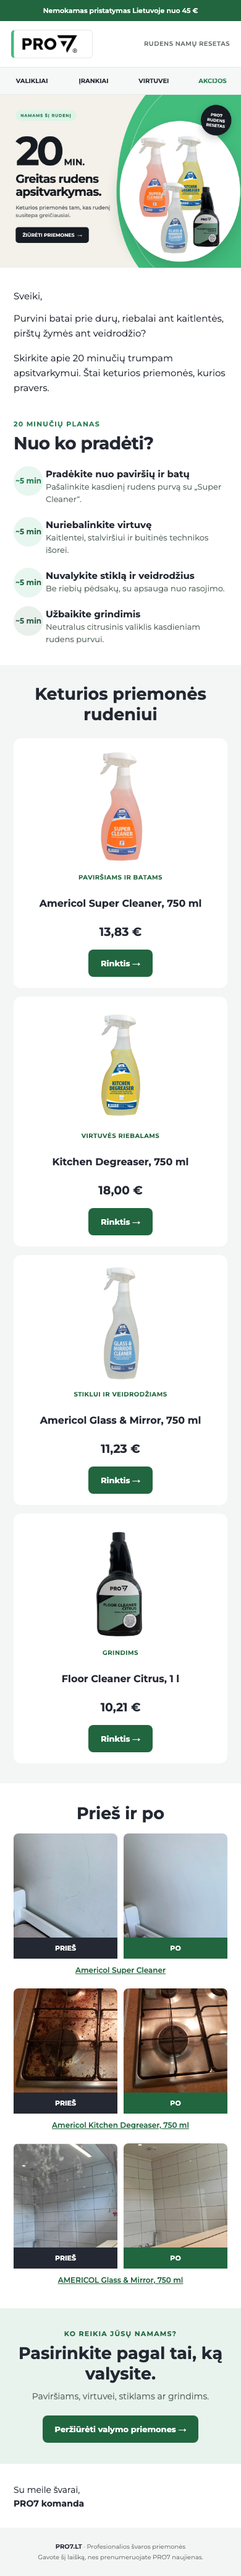
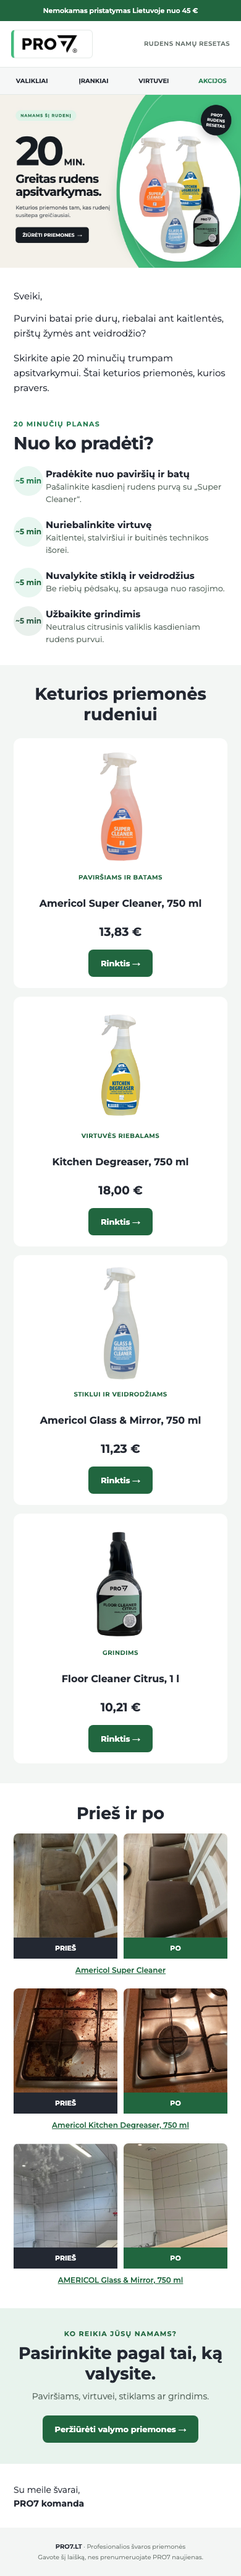
Replace Super Cleaner wall proof with client chair photos

Changed region(s): [[0.0308, 0.7139, 0.9538, 0.776]]

diff --git a/nl2-20min-rudens-resetas/omnisend.html b/nl2-20min-rudens-resetas/omnisend.html
@@ -1,10 +1,10 @@
-<!-- PRO7 NL2. HTML input only. Paste omnisend-styles.css into Styles. Asset commit: 19673d591aebc471332e1b536290d04e2dd6ef27. -->
+<!-- PRO7 NL2. HTML input only. Paste omnisend-styles.css into Styles. Asset commit: 00952623221b16e9c7082c4826b43da69c2dc98a. -->
 <table role="presentation" class="pro7-email canvas" width="100%" cellpadding="0" cellspacing="0" border="0" bgcolor="#edf1ef" style="font-family:Montserrat,Arial,sans-serif;color:#232832;width:100%;max-width:600px;table-layout:fixed;margin:0 auto"><tr><td class="outer" align="center" style="font-family:Montserrat,Arial,sans-serif;padding:0">
     <table role="presentation" class="shell surface" width="100%" align="center" cellpadding="0" cellspacing="0" border="0" bgcolor="#ffffff" style="width:100%;max-width:600px;table-layout:fixed;margin:0 auto">
       <tr><td class="bar" bgcolor="#21663f" align="center" style="font-family:Montserrat,Arial,sans-serif;padding:9px 16px;font-family:Montserrat,Arial,sans-serif;font-size:11px;line-height:16px;font-weight:600;color:#ffffff">Nemokamas pristatymas Lietuvoje nuo 45 €</td></tr>
       <tr><td class="surface header" bgcolor="#ffffff" style="font-family:Montserrat,Arial,sans-serif;padding:13px 32px">
         <table cellpadding="0" cellspacing="0" border="0" role="presentation" width="100%"><tr>
-          <td style="font-family:Montserrat,Arial,sans-serif;"><a href="https://www.pro7.lt/"><img class="logo" src="https://raw.githubusercontent.com/elaiskai/pro7-email-assets/19673d591aebc471332e1b536290d04e2dd6ef27/nl2-20min-rudens-resetas/assets/pro7-logo-safe.png" width="150" alt="PRO7" style="display:block;border:0;max-width:100%;width:150px;max-width:100%;height:auto"></a></td>
+          <td style="font-family:Montserrat,Arial,sans-serif;"><a href="https://www.pro7.lt/"><img class="logo" src="https://raw.githubusercontent.com/elaiskai/pro7-email-assets/00952623221b16e9c7082c4826b43da69c2dc98a/nl2-20min-rudens-resetas/assets/pro7-logo-safe.png" width="150" alt="PRO7" style="display:block;border:0;max-width:100%;width:150px;max-width:100%;height:auto"></a></td>
           <td class="header-label muted" align="right" style="font-family:Montserrat,Arial,sans-serif;font-family:Montserrat,Arial,sans-serif;font-size:11px;line-height:15px;font-weight:600;letter-spacing:1.2px;text-transform:uppercase;color:#65706b">Rudens namų resetas</td>
         </tr></table>
       </td></tr>
@@ -17,7 +17,7 @@
         </tr></table>
       </td></tr>
 
-      <tr><td style="font-family:Montserrat,Arial,sans-serif;"><a href="https://www.pro7.lt/svaros-prekes-valikliai/valymo-priemones"><img src="https://raw.githubusercontent.com/elaiskai/pro7-email-assets/19673d591aebc471332e1b536290d04e2dd6ef27/nl2-20min-rudens-resetas/assets/hero-20min.jpg" width="600" alt="20 min. greitam rudens apsitvarkymui. Super Cleaner, Kitchen Degreaser, Glass &amp; Mirror ir Floor Cleaner Citrus. Žiūrėti priemones." style="display:block;border:0;max-width:100%;width:100%;height:auto"></a></td></tr>
+      <tr><td style="font-family:Montserrat,Arial,sans-serif;"><a href="https://www.pro7.lt/svaros-prekes-valikliai/valymo-priemones"><img src="https://raw.githubusercontent.com/elaiskai/pro7-email-assets/00952623221b16e9c7082c4826b43da69c2dc98a/nl2-20min-rudens-resetas/assets/hero-20min.jpg" width="600" alt="20 min. greitam rudens apsitvarkymui. Super Cleaner, Kitchen Degreaser, Glass &amp; Mirror ir Floor Cleaner Citrus. Žiūrėti priemones." style="display:block;border:0;max-width:100%;width:100%;height:auto"></a></td></tr>
 
       <tr><td class="pad" style="font-family:Montserrat,Arial,sans-serif;padding:34px 38px 22px;font-family:Montserrat,Arial,sans-serif;color:#232832">
         <p class="greeting" style="margin:0 0 12px;font-size:15px;line-height:24px">Sveiki,</p>
@@ -46,7 +46,7 @@
 <!--[if mso]><td width="268" valign="top" style="font-family:Montserrat,Arial,sans-serif;"><![endif]-->
 <table class="product-col" role="presentation" width="268" cellpadding="0" cellspacing="0" style="display:inline-table;vertical-align:top;width:100%;max-width:268px;table-layout:fixed"><tr><td class="product-gutter" style="font-family:Montserrat,Arial,sans-serif;padding:0 7px 14px">
 <table cellpadding="0" cellspacing="0" border="0" class="product-card" role="presentation" width="100%" bgcolor="#ffffff" style="border-radius:12px;background:#ffffff">
-<tr><td align="center" style="font-family:Montserrat,Arial,sans-serif;padding:18px 12px 8px"><a href="https://www.pro7.lt/svaros-prekes/113-americol-super-cleaner-0-75-l-universalus-valiklis-koncentratas"><img class="product-img" src="https://raw.githubusercontent.com/elaiskai/pro7-email-assets/19673d591aebc471332e1b536290d04e2dd6ef27/nl2-20min-rudens-resetas/assets/super-cleaner.png" width="185" height="185" alt="Americol Super Cleaner, 750 ml" style="display:block;border:0;max-width:100%;width:185px;height:185px;margin:0 auto;border-radius:8px"></a></td></tr>
+<tr><td align="center" style="font-family:Montserrat,Arial,sans-serif;padding:18px 12px 8px"><a href="https://www.pro7.lt/svaros-prekes/113-americol-super-cleaner-0-75-l-universalus-valiklis-koncentratas"><img class="product-img" src="https://raw.githubusercontent.com/elaiskai/pro7-email-assets/00952623221b16e9c7082c4826b43da69c2dc98a/nl2-20min-rudens-resetas/assets/super-cleaner.png" width="185" height="185" alt="Americol Super Cleaner, 750 ml" style="display:block;border:0;max-width:100%;width:185px;height:185px;margin:0 auto;border-radius:8px"></a></td></tr>
 <tr><td align="center" height="28" style="font-family:Montserrat,Arial,sans-serif;height:28px;padding:0 12px;font-size:10px;line-height:14px;font-weight:700;letter-spacing:.5px;text-transform:uppercase;color:#21663f">Paviršiams ir batams</td></tr>
 <tr><td align="center" valign="middle" height="56" style="font-family:Montserrat,Arial,sans-serif;height:56px;padding:0 14px"><h3 style="margin:0;font-size:16px;line-height:22px;font-weight:700"><a href="https://www.pro7.lt/svaros-prekes/113-americol-super-cleaner-0-75-l-universalus-valiklis-koncentratas" style="text-decoration:none;color:#232832">Americol Super Cleaner, 750 ml</a></h3></td></tr>
 <tr><td align="center" height="36" style="font-family:Montserrat,Arial,sans-serif;height:36px;font-size:19px;line-height:26px;font-weight:700"><a href="https://www.pro7.lt/svaros-prekes/113-americol-super-cleaner-0-75-l-universalus-valiklis-koncentratas" style="text-decoration:none;color:#232832">13,83 €</a></td></tr>
@@ -57,7 +57,7 @@
 <!--[if mso]><td width="268" valign="top" style="font-family:Montserrat,Arial,sans-serif;"><![endif]-->
 <table class="product-col" role="presentation" width="268" cellpadding="0" cellspacing="0" style="display:inline-table;vertical-align:top;width:100%;max-width:268px;table-layout:fixed"><tr><td class="product-gutter" style="font-family:Montserrat,Arial,sans-serif;padding:0 7px 14px">
 <table cellpadding="0" cellspacing="0" border="0" class="product-card" role="presentation" width="100%" bgcolor="#ffffff" style="border-radius:12px;background:#ffffff">
-<tr><td align="center" style="font-family:Montserrat,Arial,sans-serif;padding:18px 12px 8px"><a href="https://www.pro7.lt/svaros-prekes/1416-americol-kitchen-degreaser-750-ml-virtuves-riebalu-salinimo-priemone"><img class="product-img" src="https://raw.githubusercontent.com/elaiskai/pro7-email-assets/19673d591aebc471332e1b536290d04e2dd6ef27/nl2-20min-rudens-resetas/assets/kitchen-degreaser.png" width="185" height="185" alt="Kitchen Degreaser, 750 ml" style="display:block;border:0;max-width:100%;width:185px;height:185px;margin:0 auto;border-radius:8px"></a></td></tr>
+<tr><td align="center" style="font-family:Montserrat,Arial,sans-serif;padding:18px 12px 8px"><a href="https://www.pro7.lt/svaros-prekes/1416-americol-kitchen-degreaser-750-ml-virtuves-riebalu-salinimo-priemone"><img class="product-img" src="https://raw.githubusercontent.com/elaiskai/pro7-email-assets/00952623221b16e9c7082c4826b43da69c2dc98a/nl2-20min-rudens-resetas/assets/kitchen-degreaser.png" width="185" height="185" alt="Kitchen Degreaser, 750 ml" style="display:block;border:0;max-width:100%;width:185px;height:185px;margin:0 auto;border-radius:8px"></a></td></tr>
 <tr><td align="center" height="28" style="font-family:Montserrat,Arial,sans-serif;height:28px;padding:0 12px;font-size:10px;line-height:14px;font-weight:700;letter-spacing:.5px;text-transform:uppercase;color:#21663f">Virtuvės riebalams</td></tr>
 <tr><td align="center" valign="middle" height="56" style="font-family:Montserrat,Arial,sans-serif;height:56px;padding:0 14px"><h3 style="margin:0;font-size:16px;line-height:22px;font-weight:700"><a href="https://www.pro7.lt/svaros-prekes/1416-americol-kitchen-degreaser-750-ml-virtuves-riebalu-salinimo-priemone" style="text-decoration:none;color:#232832">Kitchen Degreaser, 750 ml</a></h3></td></tr>
 <tr><td align="center" height="36" style="font-family:Montserrat,Arial,sans-serif;height:36px;font-size:19px;line-height:26px;font-weight:700"><a href="https://www.pro7.lt/svaros-prekes/1416-americol-kitchen-degreaser-750-ml-virtuves-riebalu-salinimo-priemone" style="text-decoration:none;color:#232832">18,00 €</a></td></tr>
@@ -69,7 +69,7 @@
 <!--[if mso]><td width="268" valign="top" style="font-family:Montserrat,Arial,sans-serif;"><![endif]-->
 <table class="product-col" role="presentation" width="268" cellpadding="0" cellspacing="0" style="display:inline-table;vertical-align:top;width:100%;max-width:268px;table-layout:fixed"><tr><td class="product-gutter" style="font-family:Montserrat,Arial,sans-serif;padding:0 7px 14px">
 <table cellpadding="0" cellspacing="0" border="0" class="product-card" role="presentation" width="100%" bgcolor="#ffffff" style="border-radius:12px;background:#ffffff">
-<tr><td align="center" style="font-family:Montserrat,Arial,sans-serif;padding:18px 12px 8px"><a href="https://www.pro7.lt/svaros-prekes/114-americol-glass-and-mirror-cleanerstiklu-ir-veidrodziu-valiklis"><img class="product-img" src="https://raw.githubusercontent.com/elaiskai/pro7-email-assets/19673d591aebc471332e1b536290d04e2dd6ef27/nl2-20min-rudens-resetas/assets/glass-mirror-750.png" width="185" height="185" alt="Americol Glass &amp; Mirror, 750 ml" style="display:block;border:0;max-width:100%;width:185px;height:185px;margin:0 auto;border-radius:8px"></a></td></tr>
+<tr><td align="center" style="font-family:Montserrat,Arial,sans-serif;padding:18px 12px 8px"><a href="https://www.pro7.lt/svaros-prekes/114-americol-glass-and-mirror-cleanerstiklu-ir-veidrodziu-valiklis"><img class="product-img" src="https://raw.githubusercontent.com/elaiskai/pro7-email-assets/00952623221b16e9c7082c4826b43da69c2dc98a/nl2-20min-rudens-resetas/assets/glass-mirror-750.png" width="185" height="185" alt="Americol Glass &amp; Mirror, 750 ml" style="display:block;border:0;max-width:100%;width:185px;height:185px;margin:0 auto;border-radius:8px"></a></td></tr>
 <tr><td align="center" height="28" style="font-family:Montserrat,Arial,sans-serif;height:28px;padding:0 12px;font-size:10px;line-height:14px;font-weight:700;letter-spacing:.5px;text-transform:uppercase;color:#21663f">Stiklui ir veidrodžiams</td></tr>
 <tr><td align="center" valign="middle" height="56" style="font-family:Montserrat,Arial,sans-serif;height:56px;padding:0 14px"><h3 style="margin:0;font-size:16px;line-height:22px;font-weight:700"><a href="https://www.pro7.lt/svaros-prekes/114-americol-glass-and-mirror-cleanerstiklu-ir-veidrodziu-valiklis" style="text-decoration:none;color:#232832">Americol Glass &amp; Mirror, 750 ml</a></h3></td></tr>
 <tr><td align="center" height="36" style="font-family:Montserrat,Arial,sans-serif;height:36px;font-size:19px;line-height:26px;font-weight:700"><a href="https://www.pro7.lt/svaros-prekes/114-americol-glass-and-mirror-cleanerstiklu-ir-veidrodziu-valiklis" style="text-decoration:none;color:#232832">11,23 €</a></td></tr>
@@ -80,7 +80,7 @@
 <!--[if mso]><td width="268" valign="top" style="font-family:Montserrat,Arial,sans-serif;"><![endif]-->
 <table class="product-col" role="presentation" width="268" cellpadding="0" cellspacing="0" style="display:inline-table;vertical-align:top;width:100%;max-width:268px;table-layout:fixed"><tr><td class="product-gutter" style="font-family:Montserrat,Arial,sans-serif;padding:0 7px 14px">
 <table cellpadding="0" cellspacing="0" border="0" class="product-card" role="presentation" width="100%" bgcolor="#ffffff" style="border-radius:12px;background:#ffffff">
-<tr><td align="center" style="font-family:Montserrat,Arial,sans-serif;padding:18px 12px 8px"><a href="https://www.pro7.lt/svaros-prekes/1375-floor-cleaner-citrus-1-l-grindu-valiklis"><img class="product-img" src="https://raw.githubusercontent.com/elaiskai/pro7-email-assets/19673d591aebc471332e1b536290d04e2dd6ef27/nl2-20min-rudens-resetas/assets/floor-cleaner-citrus.png" width="185" height="185" alt="Floor Cleaner Citrus, 1 l" style="display:block;border:0;max-width:100%;width:185px;height:185px;margin:0 auto;border-radius:8px"></a></td></tr>
+<tr><td align="center" style="font-family:Montserrat,Arial,sans-serif;padding:18px 12px 8px"><a href="https://www.pro7.lt/svaros-prekes/1375-floor-cleaner-citrus-1-l-grindu-valiklis"><img class="product-img" src="https://raw.githubusercontent.com/elaiskai/pro7-email-assets/00952623221b16e9c7082c4826b43da69c2dc98a/nl2-20min-rudens-resetas/assets/floor-cleaner-citrus.png" width="185" height="185" alt="Floor Cleaner Citrus, 1 l" style="display:block;border:0;max-width:100%;width:185px;height:185px;margin:0 auto;border-radius:8px"></a></td></tr>
 <tr><td align="center" height="28" style="font-family:Montserrat,Arial,sans-serif;height:28px;padding:0 12px;font-size:10px;line-height:14px;font-weight:700;letter-spacing:.5px;text-transform:uppercase;color:#21663f">Grindims</td></tr>
 <tr><td align="center" valign="middle" height="56" style="font-family:Montserrat,Arial,sans-serif;height:56px;padding:0 14px"><h3 style="margin:0;font-size:16px;line-height:22px;font-weight:700"><a href="https://www.pro7.lt/svaros-prekes/1375-floor-cleaner-citrus-1-l-grindu-valiklis" style="text-decoration:none;color:#232832">Floor Cleaner Citrus, 1 l</a></h3></td></tr>
 <tr><td align="center" height="36" style="font-family:Montserrat,Arial,sans-serif;height:36px;font-size:19px;line-height:26px;font-weight:700"><a href="https://www.pro7.lt/svaros-prekes/1375-floor-cleaner-citrus-1-l-grindu-valiklis" style="text-decoration:none;color:#232832">10,21 €</a></td></tr>
@@ -93,9 +93,9 @@
 </td></tr>
 <tr><td class="pad surface" bgcolor="#ffffff" style="font-family:Montserrat,Arial,sans-serif;padding:32px;color:#232832">
 <h2 style="margin:0 0 8px;font-size:27px;line-height:33px;font-weight:700;text-align:center">Prieš ir po</h2>
-<table cellpadding="0" cellspacing="0" border="0" class="proof" role="presentation" width="100%" style="table-layout:fixed;margin-top:16px"><tr><td width="50%" valign="top" style="font-family:Montserrat,Arial,sans-serif;padding:0 5px 0 0"><a href="https://www.pro7.lt/galerija"><img src="https://raw.githubusercontent.com/elaiskai/pro7-email-assets/19673d591aebc471332e1b536290d04e2dd6ef27/nl2-20min-rudens-resetas/assets/before-super-cleaner-email.jpg" width="258" alt="Siena prieš valymą, Americol Super Cleaner" style="display:block;border:0;max-width:100%;width:100%;height:auto;border-radius:8px 8px 0 0"></a><p style="margin:0;padding:9px;background:#232832;color:#ffffff;text-align:center;font-size:11px;line-height:16px;font-weight:700">PRIEŠ</p></td><td width="50%" valign="top" style="font-family:Montserrat,Arial,sans-serif;padding:0 0 0 5px"><a href="https://www.pro7.lt/galerija"><img src="https://raw.githubusercontent.com/elaiskai/pro7-email-assets/19673d591aebc471332e1b536290d04e2dd6ef27/nl2-20min-rudens-resetas/assets/after-super-cleaner-email.jpg" width="258" alt="Siena po valymo, Americol Super Cleaner" style="display:block;border:0;max-width:100%;width:100%;height:auto;border-radius:8px 8px 0 0"></a><p style="margin:0;padding:9px;background:#21663f;color:#ffffff;text-align:center;font-size:11px;line-height:16px;font-weight:700">PO</p></td></tr><tr><td colspan="2" align="center" style="font-family:Montserrat,Arial,sans-serif;padding:10px 0 4px;font-size:12px;line-height:18px;font-weight:600"><a href="https://www.pro7.lt/svaros-prekes/113-americol-super-cleaner-0-75-l-universalus-valiklis-koncentratas" style="text-decoration:none;color:#21663f;text-decoration:underline">Americol Super Cleaner</a></td></tr></table>
-<table cellpadding="0" cellspacing="0" border="0" class="proof" role="presentation" width="100%" style="table-layout:fixed;margin-top:16px"><tr><td width="50%" valign="top" style="font-family:Montserrat,Arial,sans-serif;padding:0 5px 0 0"><a href="https://www.pro7.lt/svaros-prekes/1416-americol-kitchen-degreaser-750-ml-virtuves-riebalu-salinimo-priemone"><img src="https://raw.githubusercontent.com/elaiskai/pro7-email-assets/19673d591aebc471332e1b536290d04e2dd6ef27/nl2-20min-rudens-resetas/assets/kitchen-degreaser-before-email.jpg" width="258" alt="Kaitlentė prieš valymą, Americol Kitchen Degreaser" style="display:block;border:0;max-width:100%;width:100%;height:auto;border-radius:8px 8px 0 0"></a><p style="margin:0;padding:9px;background:#232832;color:#ffffff;text-align:center;font-size:11px;line-height:16px;font-weight:700">PRIEŠ</p></td><td width="50%" valign="top" style="font-family:Montserrat,Arial,sans-serif;padding:0 0 0 5px"><a href="https://www.pro7.lt/svaros-prekes/1416-americol-kitchen-degreaser-750-ml-virtuves-riebalu-salinimo-priemone"><img src="https://raw.githubusercontent.com/elaiskai/pro7-email-assets/19673d591aebc471332e1b536290d04e2dd6ef27/nl2-20min-rudens-resetas/assets/kitchen-degreaser-after-email.jpg" width="258" alt="Kaitlentė po valymo, Americol Kitchen Degreaser" style="display:block;border:0;max-width:100%;width:100%;height:auto;border-radius:8px 8px 0 0"></a><p style="margin:0;padding:9px;background:#21663f;color:#ffffff;text-align:center;font-size:11px;line-height:16px;font-weight:700">PO</p></td></tr><tr><td colspan="2" align="center" style="font-family:Montserrat,Arial,sans-serif;padding:10px 0 4px;font-size:12px;line-height:18px;font-weight:600"><a href="https://www.pro7.lt/svaros-prekes/1416-americol-kitchen-degreaser-750-ml-virtuves-riebalu-salinimo-priemone" style="text-decoration:none;color:#21663f;text-decoration:underline">Americol Kitchen Degreaser, 750 ml</a></td></tr></table>
-<table cellpadding="0" cellspacing="0" border="0" class="proof" role="presentation" width="100%" style="table-layout:fixed;margin-top:16px"><tr><td width="50%" valign="top" style="font-family:Montserrat,Arial,sans-serif;padding:0 5px 0 0"><a href="https://www.pro7.lt/galerija"><img src="https://raw.githubusercontent.com/elaiskai/pro7-email-assets/19673d591aebc471332e1b536290d04e2dd6ef27/nl2-20min-rudens-resetas/assets/pries-pro7-valymo-priemones-43f9a.jpg" width="258" alt="Veidrodis prieš valymą, AMERICOL Glass &amp; Mirror, 750 ml" style="display:block;border:0;max-width:100%;width:100%;height:auto;border-radius:8px 8px 0 0"></a><p style="margin:0;padding:9px;background:#232832;color:#ffffff;text-align:center;font-size:11px;line-height:16px;font-weight:700">PRIEŠ</p></td><td width="50%" valign="top" style="font-family:Montserrat,Arial,sans-serif;padding:0 0 0 5px"><a href="https://www.pro7.lt/galerija"><img src="https://raw.githubusercontent.com/elaiskai/pro7-email-assets/19673d591aebc471332e1b536290d04e2dd6ef27/nl2-20min-rudens-resetas/assets/po-pro7-valymo-priemones-3bbdc.jpg" width="258" alt="Veidrodis po valymo, AMERICOL Glass &amp; Mirror, 750 ml" style="display:block;border:0;max-width:100%;width:100%;height:auto;border-radius:8px 8px 0 0"></a><p style="margin:0;padding:9px;background:#21663f;color:#ffffff;text-align:center;font-size:11px;line-height:16px;font-weight:700">PO</p></td></tr><tr><td colspan="2" align="center" style="font-family:Montserrat,Arial,sans-serif;padding:10px 0 4px;font-size:12px;line-height:18px;font-weight:600"><a href="https://www.pro7.lt/svaros-prekes/114-americol-glass-and-mirror-cleanerstiklu-ir-veidrodziu-valiklis" style="text-decoration:none;color:#21663f;text-decoration:underline">AMERICOL Glass &amp; Mirror, 750 ml</a></td></tr></table>
+<table cellpadding="0" cellspacing="0" border="0" class="proof" role="presentation" width="100%" style="table-layout:fixed;margin-top:16px"><tr><td width="50%" valign="top" style="font-family:Montserrat,Arial,sans-serif;padding:0 5px 0 0"><a href="https://www.pro7.lt/svaros-prekes/113-americol-super-cleaner-0-75-l-universalus-valiklis-koncentratas"><img src="https://raw.githubusercontent.com/elaiskai/pro7-email-assets/00952623221b16e9c7082c4826b43da69c2dc98a/nl2-20min-rudens-resetas/assets/super-cleaner-chairs-before-email.jpg" width="258" alt="Kėdžių apmušalai prieš valymą, Americol Super Cleaner" style="display:block;border:0;max-width:100%;width:100%;height:auto;border-radius:8px 8px 0 0"></a><p style="margin:0;padding:9px;background:#232832;color:#ffffff;text-align:center;font-size:11px;line-height:16px;font-weight:700">PRIEŠ</p></td><td width="50%" valign="top" style="font-family:Montserrat,Arial,sans-serif;padding:0 0 0 5px"><a href="https://www.pro7.lt/svaros-prekes/113-americol-super-cleaner-0-75-l-universalus-valiklis-koncentratas"><img src="https://raw.githubusercontent.com/elaiskai/pro7-email-assets/00952623221b16e9c7082c4826b43da69c2dc98a/nl2-20min-rudens-resetas/assets/super-cleaner-chairs-after-email.jpg" width="258" alt="Kėdžių apmušalai po valymo, Americol Super Cleaner" style="display:block;border:0;max-width:100%;width:100%;height:auto;border-radius:8px 8px 0 0"></a><p style="margin:0;padding:9px;background:#21663f;color:#ffffff;text-align:center;font-size:11px;line-height:16px;font-weight:700">PO</p></td></tr><tr><td colspan="2" align="center" style="font-family:Montserrat,Arial,sans-serif;padding:10px 0 4px;font-size:12px;line-height:18px;font-weight:600"><a href="https://www.pro7.lt/svaros-prekes/113-americol-super-cleaner-0-75-l-universalus-valiklis-koncentratas" style="text-decoration:none;color:#21663f;text-decoration:underline">Americol Super Cleaner</a></td></tr></table>
+<table cellpadding="0" cellspacing="0" border="0" class="proof" role="presentation" width="100%" style="table-layout:fixed;margin-top:16px"><tr><td width="50%" valign="top" style="font-family:Montserrat,Arial,sans-serif;padding:0 5px 0 0"><a href="https://www.pro7.lt/svaros-prekes/1416-americol-kitchen-degreaser-750-ml-virtuves-riebalu-salinimo-priemone"><img src="https://raw.githubusercontent.com/elaiskai/pro7-email-assets/00952623221b16e9c7082c4826b43da69c2dc98a/nl2-20min-rudens-resetas/assets/kitchen-degreaser-before-email.jpg" width="258" alt="Kaitlentė prieš valymą, Americol Kitchen Degreaser" style="display:block;border:0;max-width:100%;width:100%;height:auto;border-radius:8px 8px 0 0"></a><p style="margin:0;padding:9px;background:#232832;color:#ffffff;text-align:center;font-size:11px;line-height:16px;font-weight:700">PRIEŠ</p></td><td width="50%" valign="top" style="font-family:Montserrat,Arial,sans-serif;padding:0 0 0 5px"><a href="https://www.pro7.lt/svaros-prekes/1416-americol-kitchen-degreaser-750-ml-virtuves-riebalu-salinimo-priemone"><img src="https://raw.githubusercontent.com/elaiskai/pro7-email-assets/00952623221b16e9c7082c4826b43da69c2dc98a/nl2-20min-rudens-resetas/assets/kitchen-degreaser-after-email.jpg" width="258" alt="Kaitlentė po valymo, Americol Kitchen Degreaser" style="display:block;border:0;max-width:100%;width:100%;height:auto;border-radius:8px 8px 0 0"></a><p style="margin:0;padding:9px;background:#21663f;color:#ffffff;text-align:center;font-size:11px;line-height:16px;font-weight:700">PO</p></td></tr><tr><td colspan="2" align="center" style="font-family:Montserrat,Arial,sans-serif;padding:10px 0 4px;font-size:12px;line-height:18px;font-weight:600"><a href="https://www.pro7.lt/svaros-prekes/1416-americol-kitchen-degreaser-750-ml-virtuves-riebalu-salinimo-priemone" style="text-decoration:none;color:#21663f;text-decoration:underline">Americol Kitchen Degreaser, 750 ml</a></td></tr></table>
+<table cellpadding="0" cellspacing="0" border="0" class="proof" role="presentation" width="100%" style="table-layout:fixed;margin-top:16px"><tr><td width="50%" valign="top" style="font-family:Montserrat,Arial,sans-serif;padding:0 5px 0 0"><a href="https://www.pro7.lt/galerija"><img src="https://raw.githubusercontent.com/elaiskai/pro7-email-assets/00952623221b16e9c7082c4826b43da69c2dc98a/nl2-20min-rudens-resetas/assets/pries-pro7-valymo-priemones-43f9a.jpg" width="258" alt="Veidrodis prieš valymą, AMERICOL Glass &amp; Mirror, 750 ml" style="display:block;border:0;max-width:100%;width:100%;height:auto;border-radius:8px 8px 0 0"></a><p style="margin:0;padding:9px;background:#232832;color:#ffffff;text-align:center;font-size:11px;line-height:16px;font-weight:700">PRIEŠ</p></td><td width="50%" valign="top" style="font-family:Montserrat,Arial,sans-serif;padding:0 0 0 5px"><a href="https://www.pro7.lt/galerija"><img src="https://raw.githubusercontent.com/elaiskai/pro7-email-assets/00952623221b16e9c7082c4826b43da69c2dc98a/nl2-20min-rudens-resetas/assets/po-pro7-valymo-priemones-3bbdc.jpg" width="258" alt="Veidrodis po valymo, AMERICOL Glass &amp; Mirror, 750 ml" style="display:block;border:0;max-width:100%;width:100%;height:auto;border-radius:8px 8px 0 0"></a><p style="margin:0;padding:9px;background:#21663f;color:#ffffff;text-align:center;font-size:11px;line-height:16px;font-weight:700">PO</p></td></tr><tr><td colspan="2" align="center" style="font-family:Montserrat,Arial,sans-serif;padding:10px 0 4px;font-size:12px;line-height:18px;font-weight:600"><a href="https://www.pro7.lt/svaros-prekes/114-americol-glass-and-mirror-cleanerstiklu-ir-veidrodziu-valiklis" style="text-decoration:none;color:#21663f;text-decoration:underline">AMERICOL Glass &amp; Mirror, 750 ml</a></td></tr></table>
 </td></tr>
       <tr><td class="pad panel" bgcolor="#e8f3ed" align="center" style="font-family:Montserrat,Arial,sans-serif;padding:34px 38px;font-family:Montserrat,Arial,sans-serif;color:#232832">
         <p style="margin:0;font-size:11px;line-height:14px;font-weight:700;letter-spacing:1.2px;color:#21663f;text-transform:uppercase">Ko reikia Jūsų namams?</p>

diff --git a/nl2-20min-rudens-resetas/index.html b/nl2-20min-rudens-resetas/index.html
@@ -152,7 +152,7 @@
 </td></tr>
 <tr><td class="pad surface" bgcolor="#ffffff" style="padding:32px;color:#232832">
 <h2 style="margin:0 0 8px;font-size:27px;line-height:33px;font-weight:700;text-align:center">Prieš ir po</h2>
-<table cellpadding="0" cellspacing="0" border="0" class="proof" role="presentation" width="100%" style="table-layout:fixed;margin-top:16px"><tr><td width="50%" valign="top" style="padding:0 5px 0 0"><a href="https://www.pro7.lt/galerija"><img src="assets/before-super-cleaner-email.jpg" width="258" alt="Siena prieš valymą, Americol Super Cleaner" style="display:block;border:0;max-width:100%;width:100%;height:auto;border-radius:8px 8px 0 0"></a><p style="margin:0;padding:9px;background:#232832;color:#ffffff;text-align:center;font-size:11px;line-height:16px;font-weight:700">PRIEŠ</p></td><td width="50%" valign="top" style="padding:0 0 0 5px"><a href="https://www.pro7.lt/galerija"><img src="assets/after-super-cleaner-email.jpg" width="258" alt="Siena po valymo, Americol Super Cleaner" style="display:block;border:0;max-width:100%;width:100%;height:auto;border-radius:8px 8px 0 0"></a><p style="margin:0;padding:9px;background:#21663f;color:#ffffff;text-align:center;font-size:11px;line-height:16px;font-weight:700">PO</p></td></tr><tr><td colspan="2" align="center" style="padding:10px 0 4px;font-size:12px;line-height:18px;font-weight:600"><a href="https://www.pro7.lt/svaros-prekes/113-americol-super-cleaner-0-75-l-universalus-valiklis-koncentratas" style="text-decoration:none;color:#21663f;text-decoration:underline">Americol Super Cleaner</a></td></tr></table>
+<table cellpadding="0" cellspacing="0" border="0" class="proof" role="presentation" width="100%" style="table-layout:fixed;margin-top:16px"><tr><td width="50%" valign="top" style="padding:0 5px 0 0"><a href="https://www.pro7.lt/svaros-prekes/113-americol-super-cleaner-0-75-l-universalus-valiklis-koncentratas"><img src="assets/super-cleaner-chairs-before-email.jpg" width="258" alt="Kėdžių apmušalai prieš valymą, Americol Super Cleaner" style="display:block;border:0;max-width:100%;width:100%;height:auto;border-radius:8px 8px 0 0"></a><p style="margin:0;padding:9px;background:#232832;color:#ffffff;text-align:center;font-size:11px;line-height:16px;font-weight:700">PRIEŠ</p></td><td width="50%" valign="top" style="padding:0 0 0 5px"><a href="https://www.pro7.lt/svaros-prekes/113-americol-super-cleaner-0-75-l-universalus-valiklis-koncentratas"><img src="assets/super-cleaner-chairs-after-email.jpg" width="258" alt="Kėdžių apmušalai po valymo, Americol Super Cleaner" style="display:block;border:0;max-width:100%;width:100%;height:auto;border-radius:8px 8px 0 0"></a><p style="margin:0;padding:9px;background:#21663f;color:#ffffff;text-align:center;font-size:11px;line-height:16px;font-weight:700">PO</p></td></tr><tr><td colspan="2" align="center" style="padding:10px 0 4px;font-size:12px;line-height:18px;font-weight:600"><a href="https://www.pro7.lt/svaros-prekes/113-americol-super-cleaner-0-75-l-universalus-valiklis-koncentratas" style="text-decoration:none;color:#21663f;text-decoration:underline">Americol Super Cleaner</a></td></tr></table>
 <table cellpadding="0" cellspacing="0" border="0" class="proof" role="presentation" width="100%" style="table-layout:fixed;margin-top:16px"><tr><td width="50%" valign="top" style="padding:0 5px 0 0"><a href="https://www.pro7.lt/svaros-prekes/1416-americol-kitchen-degreaser-750-ml-virtuves-riebalu-salinimo-priemone"><img src="assets/kitchen-degreaser-before-email.jpg" width="258" alt="Kaitlentė prieš valymą, Americol Kitchen Degreaser" style="display:block;border:0;max-width:100%;width:100%;height:auto;border-radius:8px 8px 0 0"></a><p style="margin:0;padding:9px;background:#232832;color:#ffffff;text-align:center;font-size:11px;line-height:16px;font-weight:700">PRIEŠ</p></td><td width="50%" valign="top" style="padding:0 0 0 5px"><a href="https://www.pro7.lt/svaros-prekes/1416-americol-kitchen-degreaser-750-ml-virtuves-riebalu-salinimo-priemone"><img src="assets/kitchen-degreaser-after-email.jpg" width="258" alt="Kaitlentė po valymo, Americol Kitchen Degreaser" style="display:block;border:0;max-width:100%;width:100%;height:auto;border-radius:8px 8px 0 0"></a><p style="margin:0;padding:9px;background:#21663f;color:#ffffff;text-align:center;font-size:11px;line-height:16px;font-weight:700">PO</p></td></tr><tr><td colspan="2" align="center" style="padding:10px 0 4px;font-size:12px;line-height:18px;font-weight:600"><a href="https://www.pro7.lt/svaros-prekes/1416-americol-kitchen-degreaser-750-ml-virtuves-riebalu-salinimo-priemone" style="text-decoration:none;color:#21663f;text-decoration:underline">Americol Kitchen Degreaser, 750 ml</a></td></tr></table>
 <table cellpadding="0" cellspacing="0" border="0" class="proof" role="presentation" width="100%" style="table-layout:fixed;margin-top:16px"><tr><td width="50%" valign="top" style="padding:0 5px 0 0"><a href="https://www.pro7.lt/galerija"><img src="assets/pries-pro7-valymo-priemones-43f9a.jpg" width="258" alt="Veidrodis prieš valymą, AMERICOL Glass &amp; Mirror, 750 ml" style="display:block;border:0;max-width:100%;width:100%;height:auto;border-radius:8px 8px 0 0"></a><p style="margin:0;padding:9px;background:#232832;color:#ffffff;text-align:center;font-size:11px;line-height:16px;font-weight:700">PRIEŠ</p></td><td width="50%" valign="top" style="padding:0 0 0 5px"><a href="https://www.pro7.lt/galerija"><img src="assets/po-pro7-valymo-priemones-3bbdc.jpg" width="258" alt="Veidrodis po valymo, AMERICOL Glass &amp; Mirror, 750 ml" style="display:block;border:0;max-width:100%;width:100%;height:auto;border-radius:8px 8px 0 0"></a><p style="margin:0;padding:9px;background:#21663f;color:#ffffff;text-align:center;font-size:11px;line-height:16px;font-weight:700">PO</p></td></tr><tr><td colspan="2" align="center" style="padding:10px 0 4px;font-size:12px;line-height:18px;font-weight:600"><a href="https://www.pro7.lt/svaros-prekes/114-americol-glass-and-mirror-cleanerstiklu-ir-veidrodziu-valiklis" style="text-decoration:none;color:#21663f;text-decoration:underline">AMERICOL Glass &amp; Mirror, 750 ml</a></td></tr></table>
 </td></tr>

diff --git a/nl2-20min-rudens-resetas/CAMPAIGN.md b/nl2-20min-rudens-resetas/CAMPAIGN.md
@@ -47,14 +47,17 @@ Stiklo valiklio puslapis patvirtina apsaugą nuo rasojimo. Vadovautis produkto n
 
 ## Prieš ir po kilmė
 
-Super Cleaner ir Glass & Mirror poros iš https://www.pro7.lt/galerija, susiejimai patikrinti tos pačios galerijos kortelės produkto nuorodoje. Kitchen Degreaser porą pateikė klientas šiame pokalbyje ir aiškiai priskyrė šiam produktui; jos kilmė nėra PRO7 viešoji galerija.
+Glass & Mirror pora iš https://www.pro7.lt/galerija, susiejimas patikrintas tos pačios galerijos kortelės produkto nuorodoje. Super Cleaner kėdžių ir Kitchen Degreaser kaitlentės poras pateikė klientas šiame pokalbyje ir aiškiai priskyrė produktams; jų kilmė nėra PRO7 viešoji galerija.
 
-| Pora | Prieš failas | Po failas | Galerijos susietas produktas |
+| Pora | Prieš failas | Po failas | Produktas / kilmė |
 | --- | --- | --- | --- |
-| Siena | pries-pro7-valymo-priemones-0f2ed.png | po-pro7-valymo-priemones-48455.png | Americol Super Cleaner, ID 113 |
+| Kėdės | super-cleaner-chairs-before-source.png | super-cleaner-chairs-after-source.png | Americol Super Cleaner, ID 113, pateikė klientas |
+| Kaitlentė | kitchen-degreaser-before-source.png | kitchen-degreaser-after-source.png | Americol Kitchen Degreaser, ID 1416, pateikė klientas |
 | Veidrodis | pries-pro7-valymo-priemones-43f9a.jpg | po-pro7-valymo-priemones-3bbdc.jpg | AMERICOL Glass & Mirror, 750 ml, ID 114 |
 
-Palikta po vieną porą trims skirtingiems produktams: Super Cleaner, Kitchen Degreaser ir Americol Glass & Mirror 750 ml. Pasikartojanti lango pora pašalinta iš laiško, jos šaltiniai liko assets archyve. Užrašai veda į tikslų susietą produktą, viešosios galerijos nuotraukos į galeriją, Kitchen Degreaser nuotraukos į produkto ID 1416 puslapį.
+Palikta po vieną porą trims skirtingiems produktams: Super Cleaner, Kitchen Degreaser ir Americol Glass & Mirror 750 ml. Ankstesnės lango ir sienos poros pašalintos iš laiško, jų šaltiniai liko assets archyve. Užrašai veda į tikslų susietą produktą, viešosios galerijos nuotraukos į galeriją, kliento pateiktos nuotraukos į atitinkamų produktų ID 113 ir 1416 puslapius.
+
+Super Cleaner kėdžių originalai: `super-cleaner-chairs-before-source.png` (dėmėti apmušalai, pateiktas failas 38854b9d) ir `super-cleaner-chairs-after-source.png` (nuvalyti apmušalai, pateiktas failas 3285636c). Laiško kopijos yra 600 × 600 px JPEG, be apkirpimo ar retušavimo. Kairėje prieš, dešinėje po. Rezultatui nepriskiriamas konkretus valymo laikas ar papildomi naudojimo teiginiai.
 
 Kitchen Degreaser originalai: `kitchen-degreaser-before-source.png` (nevalyta kaitlentė, pateiktas failas df81f39c) ir `kitchen-degreaser-after-source.png` (nuvalyta kaitlentė, pateiktas failas be4a8540). Laiško kopijos yra 600 × 600 px JPEG, be apkirpimo ar retušavimo. Siuntimo tvarka nesutapo su prieš / po tvarka, todėl nevalyta nuotrauka įdėta kairėje, nuvalyta dešinėje. Rezultatui nepriskiriamas konkretus valymo laikas.
 

diff --git a/nl2-20min-rudens-resetas/QA.md b/nl2-20min-rudens-resetas/QA.md
@@ -4,13 +4,14 @@ Maketas ir eksportas pakartotinai patikrinti 2026-09-09. Omnisend Custom HTML bl
 
 ## Eksportas
 
-- Paveikslėlių commit: `19673d591aebc471332e1b536290d04e2dd6ef27`.
+- Paveikslėlių commit: `00952623221b16e9c7082c4826b43da69c2dc98a`.
 - 12 paveikslėlių nuorodų, visos HTTPS; tikrinamas jų užsikrovimas iš viešų GitHub adresų.
-- Bendras laiške naudojamų paveikslėlių dydis 1 030 543 baitai.
+- Bendras laiške naudojamų paveikslėlių dydis 1 083 414 baitai.
 - HTML ir CSS pateikiami atskirai. Eksporto HTML neturi style žymų, kritinis pločio valdymas yra inline.
 - 11 unikalių PRO7 nuorodų. Jos buvo ankstesnėje patikrintoje nuorodų aibėje; ID 114 puslapis papildomai patikrintas 2026-09-09.
 - Produktų ID: 113, 1416, 114, 1375. Glass & Mirror pakeistas į Americol 750 ml, 11,23 €. Nuotrauka, pavadinimas, kaina ir CTA veda į ID 114.
 - Trys prieš / po poros trims skirtingiems produktams. Kitchen Degreaser porą pateikė ir produktui priskyrė klientas. Kairėje nevalyta kaitlentė, dešinėje nuvalyta; vaizdai neretušuoti. Abiejų nuotraukų ir užrašo nuorodos veda į ID 1416. Tikras rasojimo eksperimentas dar negautas ir nepateikiamas kaip įvykęs.
+- Super Cleaner sienos pora pakeista kliento pateikta kėdžių pora: dėmėti apmušalai kairėje, nuvalyti dešinėje. Abu vaizdai ir užrašas veda į ID 113. Nuotraukos tik sumažintos ir konvertuotos į JPEG, neapkirptos ir neretušuotos.
 - Galerijoje po vieną nuorodą ant kiekvieno paveikslėlio, nėra nuorodomis apgaubtų lentelių.
 - Produktų nuotraukos, pavadinimai, kainos ir mygtukai yra paspaudžiami.
 - Eksporte nėra vietinių paveikslėlių adresų, DOCTYPE, head, body, script žymų ar mūsų unsubscribe nuorodos.
